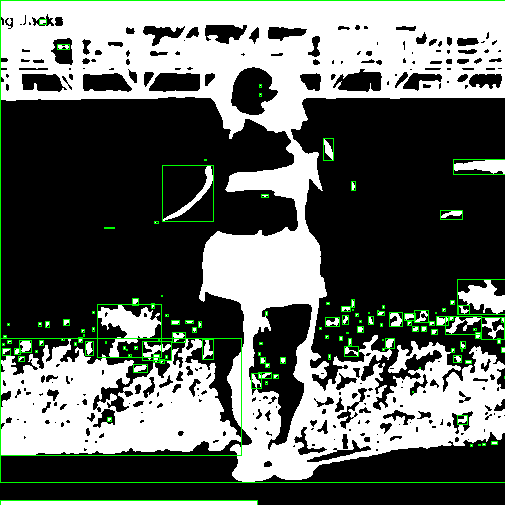
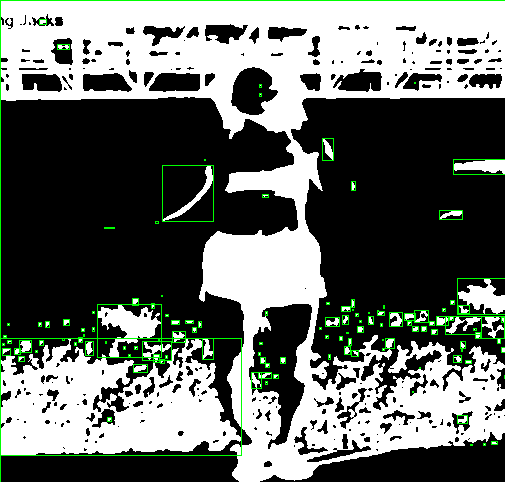
bugs

diff --git a/main_project/Udi/binAndEdge.py b/main_project/Udi/binAndEdge.py
@@ -3,7 +3,7 @@ import numpy as np
 from PIL import Image
 
 if __name__ == "__main__":
-    ogImage = Image.open("/Users/udiram/Documents/GitHub/FitnessDetection/main_project/pics/2.png")
+    ogImage = Image.open("/Users/udiram/Documents/GitHub/FitnessDetection/main/pics/crop1.jpg")
 
 
     ogImage = ogImage.convert('L')

diff --git a/main/canny.py b/main/canny.py
@@ -1,0 +1,2 @@
+if __name__ == "__main__":
+    
